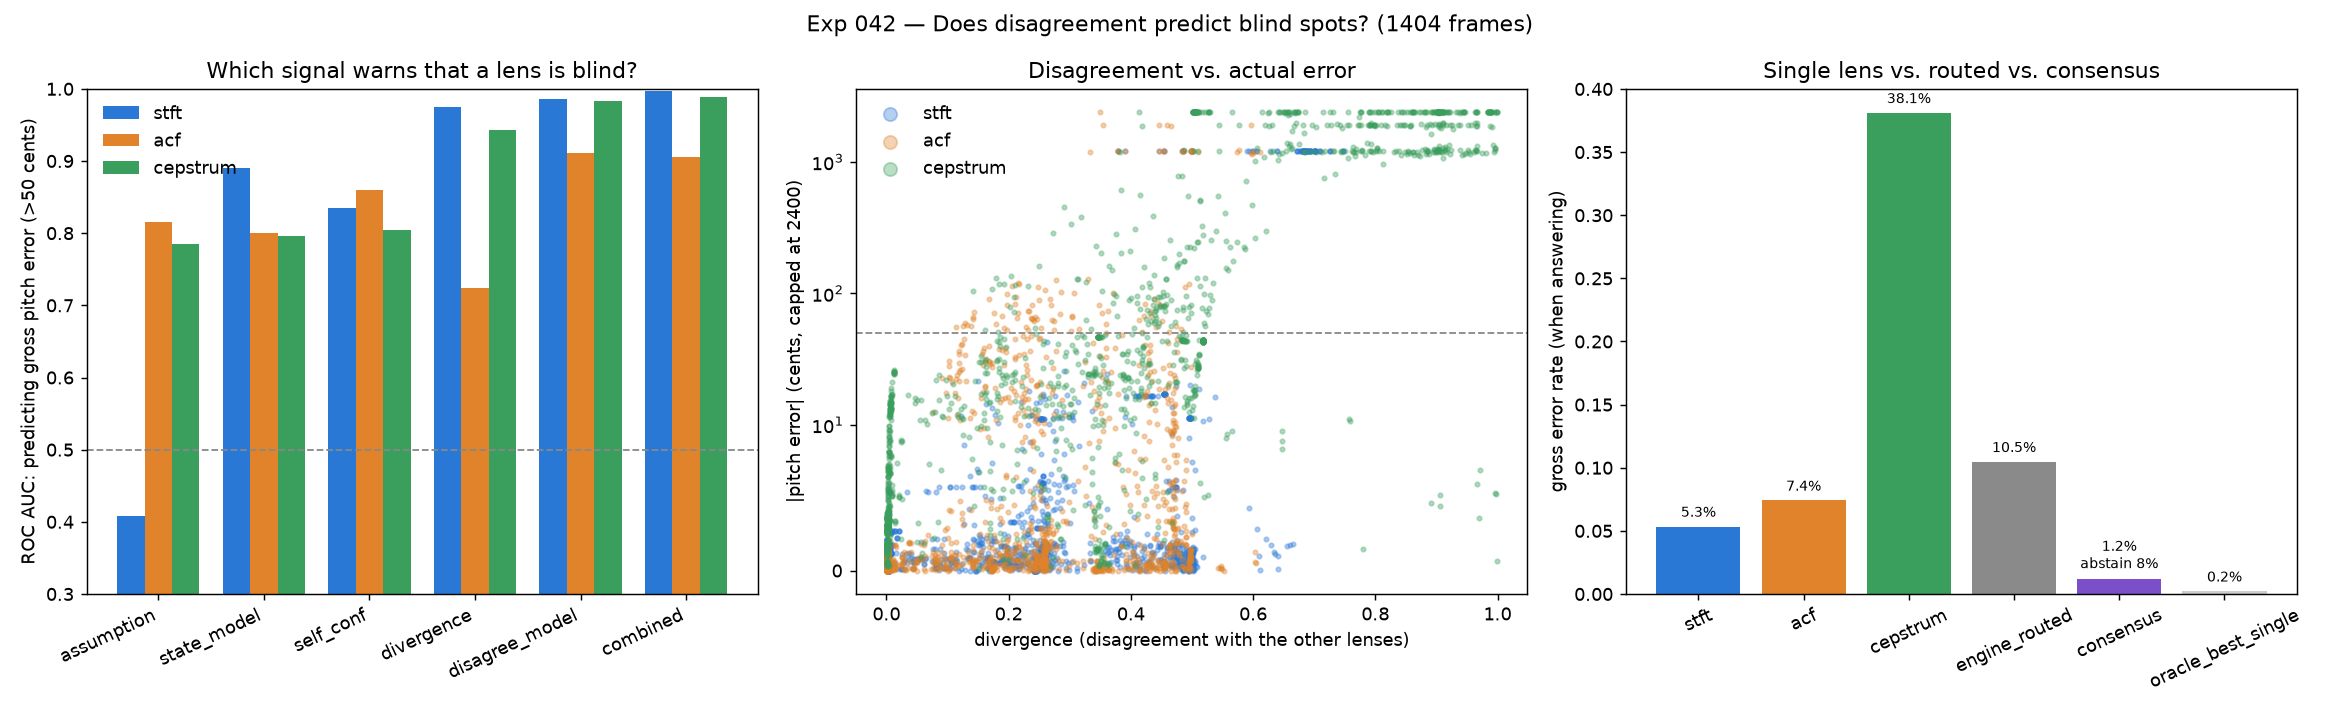
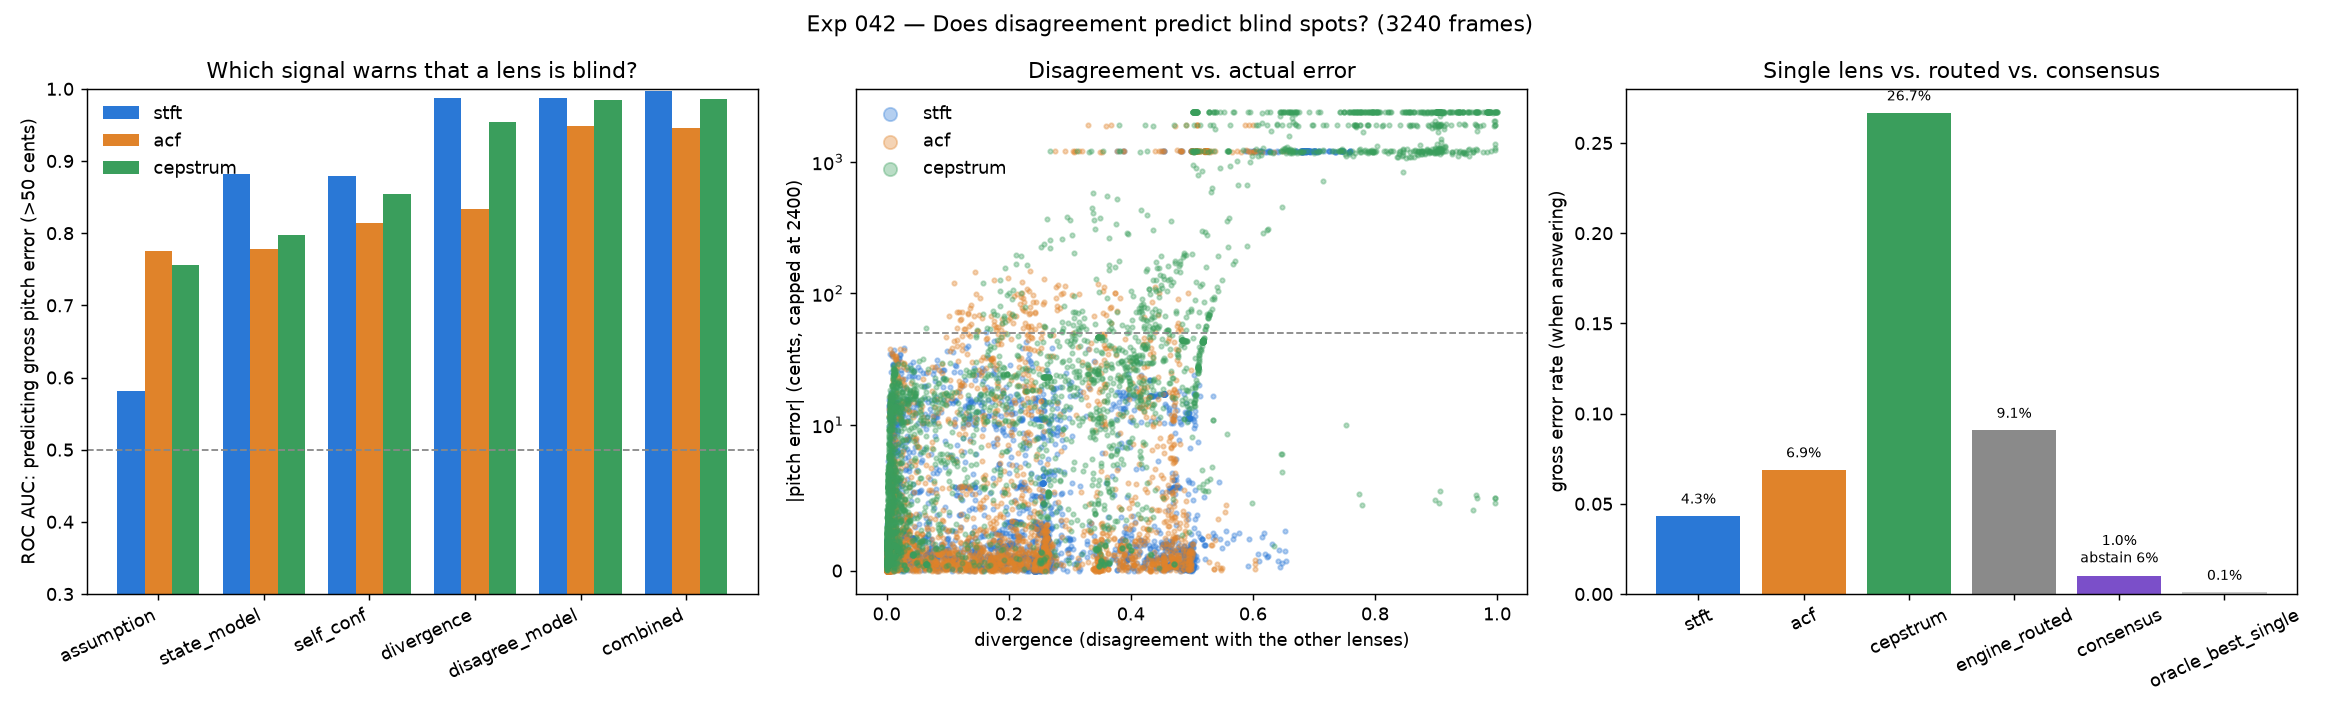
Extend Exp 042 with pitch shift, time stretch and more signal types (closes #2)
Add vibrato, glide and pulse-train signals alongside harmonic stacks, pitch
shift and time stretch perturbations (true f0 track transformed with the
signal), a per-signal-type breakdown and an unpitched white-noise
false-confidence check. 3,240 frames; README results updated, including
where disagreement does not help.

diff --git a/src/experiments/exp042_disagreement_prediction.py b/src/experiments/exp042_disagreement_prediction.py
@@ -4,7 +4,7 @@ Experiment 042 — Does Disagreement Predict Blind Spots? (issue #2)
 Tests the core principle of docs/VISION.md: *disagreement between
 representations is information*.
 
-For thousands of synthetic frames with a known f0, we run STFT, ACF and
+For thousands of synthetic frames with a known f0 track, we run STFT, ACF and
 Cepstrum side by side (src/framework/disagreement.py) and ask, for each
 representation: **can we tell in advance that it is about to make a gross
 pitch error (> 50 cents)?**
@@ -22,8 +22,17 @@ Predictors compared (all evaluated per representation, ROC AUC, higher = better)
   Both:
     6. combined     state + disagreement features (CV)
 
-Cross-validation is grouped by base signal (f0, harmonic count) so the model
+Signals: stationary harmonic stacks (1 to 20 harmonics), vibrato, glides and a
+flat-spectrum pulse train. Perturbations: noise, low-pass, missing fundamental,
+clipping, low-pass + noise, pitch shift and time stretch (the true f0 track is
+transformed along with the signal). Truth for a frame = geometric mean of the
+f0 track over that frame.
+
+Cross-validation is grouped by base signal (f0, signal variant) so the model
 is always tested on signals it has never seen.
+
+An extra check on unpitched input (pure white noise): how often does each lens
+confidently report a pitch that is not there, and how often does the consensus?
 
 We also check whether comparing lenses gives a better *answer*, not just a
 better warning: gross-error rate of each single lens vs. the lens the engine
@@ -53,17 +62,20 @@ warnings.filterwarnings("ignore")
 
 from src.framework.engine import RepresentationIntelligenceEngine
 from src.perturbations.filter import lowpass_filter
+from src.perturbations.pitch_shift import apply_pitch_shift
+from src.perturbations.time_stretch import apply_time_stretch
 from scipy.signal import butter, filtfilt
 
 SR = 22050          # the engine's state space was calibrated at 22.05 kHz
 FRAME = 2048
-DURATION = 0.5
+DURATION = 1.0
 GROSS_CENTS = 50.0
 REPS = ("stft", "acf", "cepstrum")
 SEEDS = (0, 1, 2)
 
 F0S = (110.0, 165.0, 220.0, 330.0, 440.0, 660.0)
 HARMONICS = (1, 2, 3, 5, 10, 20)
+UNPITCHED_FRAMES = 90
 
 OUT_PNG = os.path.join(project_root, "results", "exp042_disagreement_prediction.png")
 OUT_JSON = os.path.join(project_root, "results", "exp042_summary.json")
@@ -73,14 +85,34 @@ OUT_JSON = os.path.join(project_root, "results", "exp042_summary.json")
 # SIGNALS & PERTURBATIONS
 # ──────────────────────────────────────────────────────────────────────────────
 
-def harmonic_signal(f0, num_harmonics, rng):
-    t = np.arange(int(SR * DURATION)) / SR
-    x = np.zeros_like(t)
-    for k in range(1, num_harmonics + 1):
-        if k * f0 >= 0.45 * SR:
+def synth(track, amps):
+    """Harmonic signal following an f0 track (Hz per sample), amps[k-1] for harmonic k."""
+    phase = 2 * np.pi * np.cumsum(track) / SR
+    x = np.zeros_like(track)
+    for k, a in enumerate(amps, start=1):
+        if k * track.max() >= 0.45 * SR:
             break
-        x += (1.0 / k) * np.sin(2 * np.pi * k * f0 * t + rng.uniform(0, 2 * np.pi))
+        x += a * np.sin(k * phase + 0.7 * k)
     return x / (np.max(np.abs(x)) + 1e-12)
+
+
+def signal_variants(f0):
+    """(variant name, signal type, function(rng) -> (x, f0_track))."""
+    n = int(SR * DURATION)
+    t = np.arange(n) / SR
+    flat = np.full(n, f0)
+    out = []
+    for nh in HARMONICS:
+        out.append((f"harmonic{nh}", "harmonic", lambda r, nh=nh: (synth(flat, [1.0 / k for k in range(1, nh + 1)]), flat)))
+    for nh in (5, 10):
+        def vib(r, nh=nh):
+            tr = f0 * 2.0 ** ((50.0 / 1200.0) * np.sin(2 * np.pi * 5.5 * t + r.uniform(0, 2 * np.pi)))
+            return synth(tr, [1.0 / k for k in range(1, nh + 1)]), tr
+        out.append((f"vibrato{nh}", "vibrato", vib))
+    glide = f0 * 2.0 ** ((t - DURATION / 2) / DURATION)  # one octave over the signal, centred on f0
+    out.append(("glide5", "glide", lambda r: (synth(glide, [1.0 / k for k in range(1, 6)]), glide)))
+    out.append(("pulse_train", "pulse_train", lambda r: (synth(flat, [1.0] * 200), flat)))
+    return out
 
 
 def add_noise_snr(x, snr_db, rng):
@@ -94,17 +126,27 @@ def highpass(x, cutoff):
 
 
 def conditions(f0):
-    """(family, severity label, function(x, rng) -> x)."""
-    out = [("clean", "-", lambda x, r: x)]
+    """(family, severity, signal fn(x, rng) -> x, track fn(track) -> track)."""
+    same = lambda tr: tr
+    out = [("clean", "-", lambda x, r: x, same)]
     for snr in (20, 10, 5, 0, -5):
-        out.append(("noise", f"{snr} dB", lambda x, r, s=snr: add_noise_snr(x, s, r)))
+        out.append(("noise", f"{snr} dB", lambda x, r, s=snr: add_noise_snr(x, s, r), same))
     for mult in (1.5, 2.5, 4.5):
-        out.append(("lowpass", f"{mult}xf0", lambda x, r, m=mult: lowpass_filter(x, SR, m * f0)))
-    out.append(("missing_fund", "hp 1.5xf0", lambda x, r: highpass(x, 1.5 * f0)))
+        out.append(("lowpass", f"{mult}xf0", lambda x, r, m=mult: lowpass_filter(x, SR, m * f0), same))
+    out.append(("missing_fund", "hp 1.5xf0", lambda x, r: highpass(x, 1.5 * f0), same))
     for gain in (3.0, 10.0):
-        out.append(("clipping", f"x{gain:g}", lambda x, r, g=gain: np.clip(g * x, -1, 1)))
+        out.append(("clipping", f"x{gain:g}", lambda x, r, g=gain: np.clip(g * x, -1, 1), same))
     out.append(("lowpass+noise", "2.5xf0, 5 dB",
-                lambda x, r: add_noise_snr(lowpass_filter(x, SR, 2.5 * f0), 5, r)))
+                lambda x, r: add_noise_snr(lowpass_filter(x, SR, 2.5 * f0), 5, r), same))
+    for steps in (-5, 4, 7):
+        out.append(("pitch_shift", f"{steps:+d} st",
+                    lambda x, r, n=steps: apply_pitch_shift(x, SR, n),
+                    lambda tr, n=steps: tr * 2.0 ** (n / 12.0)))
+    for rate in (0.8, 1.25):
+        # Output time t corresponds to input time t * rate.
+        out.append(("time_stretch", f"x{rate:g}",
+                    lambda x, r, k=rate: apply_time_stretch(x, k),
+                    lambda tr, k=rate: np.interp(np.arange(len(tr)) * k, np.arange(len(tr)), tr)))
     return out
 
 
@@ -174,32 +216,49 @@ def grouped_cv_scores(X, y, groups, k=5, seed=0):
 # DATA COLLECTION
 # ──────────────────────────────────────────────────────────────────────────────
 
+def frame_row(engine, frame, truth, meta):
+    state = engine.analyze(frame, SR)
+    rep = state.disagreement
+    return {
+        **meta, "truth": truth,
+        "z1": state.coordinate[0], "z2": state.coordinate[1],
+        "region": state.region,
+        "assumptions": {r: state.assumptions[r] for r in REPS},
+        "readings": {r: (rep.readings[r].f0, rep.readings[r].confidence) for r in REPS},
+        "voiced": {r: rep.readings[r].voiced for r in REPS},
+        "divergence": dict(rep.divergence),
+        "overall": rep.overall,
+        "consensus_f0": rep.consensus_f0,
+        "pairs": [(p.a, p.b, p.pitch_term, p.confidence_gap, p.octave_related) for p in rep.pairs],
+    }
+
+
 def collect():
     engine = RepresentationIntelligenceEngine()
     rows = []
     for f0 in F0S:
-        for nh in HARMONICS:
-            for family, severity, fn in conditions(f0):
+        for variant, sig_type, make in signal_variants(f0):
+            for family, severity, fn, track_fn in conditions(f0):
                 for seed in SEEDS:
-                    rng = np.random.default_rng(zlib.crc32(repr((f0, nh, family, severity, seed)).encode()))
-                    x = fn(harmonic_signal(f0, nh, rng), rng)
+                    rng = np.random.default_rng(zlib.crc32(repr((f0, variant, family, severity, seed)).encode()))
+                    x, track = make(rng)
+                    x, track = fn(x, rng), track_fn(track)
                     start = (len(x) - FRAME) // 2 + int(rng.integers(-500, 500))
-                    frame = x[start:start + FRAME]
-                    state = engine.analyze(frame, SR)
-                    rep = state.disagreement
-                    rows.append({
-                        "f0": f0, "harmonics": nh, "family": family, "severity": severity,
-                        "seed": seed, "group": f"{f0:g}-{nh}",
-                        "z1": state.coordinate[0], "z2": state.coordinate[1],
-                        "region": state.region,
-                        "assumptions": {r: state.assumptions[r] for r in REPS},
-                        "readings": {r: (rep.readings[r].f0, rep.readings[r].confidence) for r in REPS},
-                        "divergence": dict(rep.divergence),
-                        "overall": rep.overall,
-                        "consensus_f0": rep.consensus_f0,
-                        "pairs": [(p.a, p.b, p.pitch_term, p.confidence_gap, p.octave_related)
-                                  for p in rep.pairs],
-                    })
+                    truth = float(np.exp(np.mean(np.log(track[start:start + FRAME]))))
+                    rows.append(frame_row(engine, x[start:start + FRAME], truth, {
+                        "f0": f0, "variant": variant, "signal": sig_type,
+                        "family": family, "severity": severity, "seed": seed,
+                        "group": f"{f0:g}-{variant}",
+                    }))
+    return rows
+
+
+def collect_unpitched():
+    engine = RepresentationIntelligenceEngine()
+    rows = []
+    for seed in range(UNPITCHED_FRAMES):
+        frame = np.random.default_rng(10_000 + seed).normal(0.0, 0.3, FRAME)
+        rows.append(frame_row(engine, frame, 0.0, {"seed": seed}))
     return rows
 
 
@@ -236,7 +295,7 @@ def analyze(rows):
     scores_for_plot = {}
 
     for rep in REPS:
-        err = np.array([cents_error(r["readings"][rep][0], r["f0"]) for r in rows])
+        err = np.array([cents_error(r["readings"][rep][0], r["truth"]) for r in rows])
         y = (err > GROSS_CENTS).astype(float)
         Xs = np.array([state_features(r) for r in rows])
         Xd = np.array([features(r, rep) for r in rows])
@@ -257,25 +316,31 @@ def analyze(rows):
         }
         scores_for_plot[rep] = (Xd[:, 0], np.minimum(err, 2400.0), y)
 
-    # Per perturbation family: AUC of divergence vs. state baseline, pooled over reps.
-    for fam in sorted({r["family"] for r in rows}):
-        idx = [i for i, r in enumerate(rows) if r["family"] == fam]
+    # Per perturbation family and per signal type: AUC of divergence vs. the
+    # existing assumption score, pooled over reps.
+    def breakdown(_key, i_list):
         lab, div, ass = [], [], []
         for rep in REPS:
-            for i in idx:
-                e = cents_error(rows[i]["readings"][rep][0], rows[i]["f0"])
+            for i in i_list:
+                e = cents_error(rows[i]["readings"][rep][0], rows[i]["truth"])
                 lab.append(e > GROSS_CENTS)
                 div.append(rows[i]["divergence"][rep])
                 ass.append(1.0 - rows[i]["assumptions"][rep])
-        summary["by_family"][fam] = {
+        return {
             "gross_error_rate": float(np.mean(lab)),
             "auc_divergence": roc_auc(div, lab),
             "auc_assumption": roc_auc(ass, lab),
         }
 
+    summary["by_signal"] = {}
+    for sig in sorted({r["signal"] for r in rows}):
+        summary["by_signal"][sig] = breakdown("signal", [i for i, r in enumerate(rows) if r["signal"] == sig])
+    for fam in sorted({r["family"] for r in rows}):
+        summary["by_family"][fam] = breakdown("family", [i for i, r in enumerate(rows) if r["family"] == fam])
+
     # Fusion: does comparing lenses give a better answer?
     def rate(estimates):
-        errs = np.array([cents_error(e, r["f0"]) for e, r in zip(estimates, rows)])
+        errs = np.array([cents_error(e, r["truth"]) for e, r in zip(estimates, rows)])
         answered = np.array([e > 0 for e in estimates])
         return {
             "gross_error_rate": float(np.mean(errs > GROSS_CENTS)),
@@ -290,9 +355,20 @@ def analyze(rows):
         r["readings"][max(REPS, key=lambda k: r["assumptions"][k])][0] for r in rows])
     summary["fusion"]["consensus"] = rate([r["consensus_f0"] for r in rows])
     summary["fusion"]["oracle_best_single"] = rate([
-        min((r["readings"][k][0] for k in REPS), key=lambda e: cents_error(e, r["f0"]))
+        min((r["readings"][k][0] for k in REPS), key=lambda e: cents_error(e, r["truth"]))
         for r in rows])
     return summary, scores_for_plot
+
+
+def analyze_unpitched(rows):
+    """On pure noise there is no pitch: any confident answer is a false alarm."""
+    out = {"n_frames": len(rows)}
+    for rep in REPS:
+        out[rep] = {"false_voiced_rate": float(np.mean([r["voiced"][rep] for r in rows]))}
+    out["any_single_lens"] = {"false_voiced_rate": float(np.mean([any(r["voiced"].values()) for r in rows]))}
+    out["consensus"] = {"false_voiced_rate": float(np.mean([r["consensus_f0"] > 0 for r in rows]))}
+    out["mean_overall_disagreement"] = float(np.mean([r["overall"] for r in rows]))
+    return out
 
 
 # ──────────────────────────────────────────────────────────────────────────────
@@ -348,6 +424,7 @@ def plot(summary, scores):
 def main():
     rows = collect()
     summary, scores = analyze(rows)
+    summary["unpitched_noise"] = analyze_unpitched(collect_unpitched())
     with open(OUT_JSON, "w") as f:
         json.dump(summary, f, indent=2)
     plot(summary, scores)
@@ -358,6 +435,10 @@ def main():
         d = summary["per_rep"][rep]
         print(f"{rep:10s} {d['gross_error_rate']:8.1%} " +
               " ".join(f"{d['auc'][p]:14.3f}" for p in PREDICTORS))
+    print("\nBy signal type (pooled over lenses): AUC divergence vs assumption")
+    for sig, d in summary["by_signal"].items():
+        print(f"  {sig:15s} err {d['gross_error_rate']:6.1%}  div {d['auc_divergence']:.3f}"
+              f"  assumption {d['auc_assumption']:.3f}")
     print("\nBy perturbation family (pooled over lenses): AUC divergence vs assumption")
     for fam, d in summary["by_family"].items():
         print(f"  {fam:15s} err {d['gross_error_rate']:6.1%}  div {d['auc_divergence']:.3f}"
@@ -365,6 +446,10 @@ def main():
     print("\nAnswer quality (gross error rate when answering / abstain rate)")
     for k, d in summary["fusion"].items():
         print(f"  {k:20s} {d['gross_error_rate_when_answering']:6.1%}  abstain {d['abstain_rate']:5.1%}")
+    u = summary["unpitched_noise"]
+    print(f"\nUnpitched noise ({u['n_frames']} frames): false 'voiced' rate")
+    for k in (*REPS, "any_single_lens", "consensus"):
+        print(f"  {k:20s} {u[k]['false_voiced_rate']:6.1%}")
     print(f"\nSaved {OUT_PNG}\nSaved {OUT_JSON}")
 
 

diff --git a/README.md b/README.md
@@ -644,31 +644,47 @@ Performs zero-shot external validation on five completely external algorithms fr
 #### Exp 042 — Does Disagreement Predict Blind Spots?
 The first test of the project's core principle ([docs/VISION.md](docs/VISION.md)): *disagreement between representations is information*. STFT, ACF and Cepstrum run side by side on each frame (`src/framework/disagreement.py`, issue #1). For each lens we ask: **can we tell in advance that it is about to make a gross pitch error (> 50 cents)?**
 
-- **Data**: 1,404 synthetic frames with known f0 (6 pitches × 6 harmonic counts from a pure sine to 20 harmonics × 13 conditions × 3 seeds) at 22.05 kHz. Conditions: clean, noise (20 to −5 dB SNR), low-pass (1.5/2.5/4.5 × f0), missing fundamental, clipping (×3, ×10), low-pass + noise.
-- **Warning signals compared**: the current framework's descriptor-only state space (`1 − assumption` score, and a model on z₁/z₂), the lens's own confidence, and the new cross-lens disagreement (`divergence`, and a model on disagreement features). Models are logistic regressions, cross-validated so every test signal is unseen.
+- **Data**: 3,240 synthetic frames with a known f0 track at 22.05 kHz: 6 pitches (110–660 Hz) × 10 signal variants × 18 conditions × 3 seeds.
+  - *Signals*: stationary harmonic stacks (pure sine up to 20 harmonics), vibrato (±50 cents at 5.5 Hz), a one-octave glide, and a flat-spectrum pulse train.
+  - *Conditions*: clean, noise (20 to −5 dB SNR), low-pass (1.5/2.5/4.5 × f0), missing fundamental, clipping (×3, ×10), low-pass + noise, pitch shift (−5, +4, +7 semitones) and time stretch (×0.8, ×1.25). The true f0 track is transformed along with the signal; a frame's truth is the geometric mean of its f0 track.
+  - *Unpitched check*: 90 frames of pure white noise, where any confident pitch is a false alarm.
+- **Warning signals compared**: the current framework's descriptor-only state space (`1 − assumption` score, and a model on z₁/z₂), the lens's own confidence, and the new cross-lens disagreement (`divergence`, and a model on disagreement features). Models are logistic regressions, cross-validated so every test signal (pitch + variant) is unseen.
 
-**ROC AUC for predicting a gross error (0.5 = chance):**
+**ROC AUC for predicting a gross error (> 50 cents; 0.5 = chance):**
 
 | Lens | Gross error rate | Assumption (existing) | State model (existing) | Own confidence | Divergence (new) | Disagreement model (new) | Combined |
 |---|---|---|---|---|---|---|---|
-| STFT | 5.3% | 0.408 | 0.890 | 0.835 | 0.974 | 0.986 | **0.997** |
-| ACF | 7.4% | 0.816 | 0.801 | 0.860 | 0.724 | **0.911** | 0.905 |
-| Cepstrum | 38.1% | 0.784 | 0.796 | 0.805 | 0.943 | 0.982 | **0.988** |
+| STFT | 4.3% | 0.581 | 0.883 | 0.879 | 0.987 | 0.987 | **0.996** |
+| ACF | 6.9% | 0.776 | 0.778 | 0.814 | 0.833 | **0.949** | 0.946 |
+| Cepstrum | 26.7% | 0.756 | 0.797 | 0.854 | 0.954 | 0.985 | **0.986** |
 
-**By condition** (all lenses pooled, AUC): divergence beats the existing assumption score on clean (1.000 vs 0.911), clipping (1.000 vs 0.886), low-pass (1.000 vs 0.879), noise (0.848 vs 0.767) and especially missing fundamental (0.901 vs 0.296, where the existing score is worse than chance). It is **worse** on low-pass + noise (0.796 vs 0.843).
+**By condition** (all lenses pooled, AUC divergence vs. existing assumption score):
+
+| Condition | Gross error rate | Divergence | Assumption |
+|---|---|---|---|
+| clean | 2.2% | **1.000** | 0.775 |
+| clipping | 6.0% | **0.996** | 0.832 |
+| low-pass | 3.3% | **1.000** | 0.898 |
+| low-pass + noise | 33.3% | 0.772 | **0.843** |
+| missing fundamental | 30.0% | **0.941** | 0.320 |
+| noise | 22.9% | **0.842** | 0.752 |
+| pitch shift | 6.4% | **0.978** | 0.653 |
+| time stretch | 3.1% | **0.995** | 0.741 |
+
+**By signal type**: divergence beats the assumption score for every type: harmonic 0.922 vs 0.822, vibrato 0.953 vs 0.787, glide 0.929 vs 0.819, pulse train 0.976 vs 0.507 (the existing score is at chance there).
 
 **Better answers, not just better warnings** (gross error rate when answering):
 
 | STFT | ACF | Cepstrum | Engine-routed lens | **Disagreement consensus** | Oracle best lens |
 |---|---|---|---|---|---|
-| 5.3% | 7.4% | 38.1% | 10.5% | **1.2%** (abstains on 7.7%) | 0.2% |
+| 4.3% | 6.9% | 26.7% | 9.1% | **1.0%** (abstains on 5.6%) | 0.1% |
 
 **Key findings:**
-1. Disagreement is a strong warning signal. A model on disagreement features predicts gross errors with AUC 0.91–0.99 for all three lenses, beating both the existing state-space predictors and each lens's own confidence.
-2. Divergence alone, with no training, is excellent for STFT (0.974) and Cepstrum (0.943) but weak for ACF (0.724), where ACF's own confidence is better (0.860). ACF errors often come with mild disagreement, so the full disagreement model is needed there.
-3. The existing framework's assumption score fails badly in some places: it is below chance for STFT (0.408) and for missing-fundamental signals (0.296). Disagreement does not have this failure.
-4. Comparing lenses gives a better answer. The confidence-weighted consensus is wrong 1.2% of the time when it answers, versus 5.3% for the best single lens and 10.5% for the lens the engine would route to. The cost is declining to answer on 7.7% of frames: exactly the 108 frames at −5 dB SNR, where no lens is confident. Counting those abstentions as errors, the consensus is wrong 8.8% of the time, still better than the engine-routed lens (10.5%).
-5. Limits: all signals are synthetic and harmonic, the error threshold and confidence calibrations are hand-set, and disagreement is weaker than the existing state space when filtering and noise combine. Validation on real recordings is tracked in issue #7.
+1. Disagreement is a strong warning signal. A model on disagreement features predicts gross errors with AUC 0.95–0.99 for all three lenses, beating both the existing state-space predictors and each lens's own confidence. This holds across all four signal types, including the moving-pitch ones (vibrato, glide).
+2. Divergence alone, with no training, is excellent for STFT (0.987) and Cepstrum (0.954) but weaker for ACF (0.833). ACF errors often come with only mild disagreement, so the full disagreement model is needed there.
+3. The existing framework's assumption score fails badly in places: near chance for STFT (0.581) and pulse trains (0.507), and below chance for missing-fundamental signals (0.320). Disagreement does not have these failures.
+4. Comparing lenses gives a better answer. The confidence-weighted consensus is wrong 1.0% of the time when it answers, versus 4.3% for the best single lens and 9.1% for the lens the engine would route to. The cost is declining to answer on 5.6% of frames: 179 of the 180 frames at −5 dB SNR plus 2 at 0 dB, where no lens is confident. Counting abstentions as errors, the consensus is wrong 6.5% of the time, still better than the engine-routed lens (9.1%).
+5. Limits: disagreement is weaker than the existing state space when filtering and noise combine (0.772 vs 0.843). The unpitched check was not informative: no lens, and so no consensus, ever reported a confident pitch on white noise (0 of 90 frames), so a harder test (e.g. coloured or modulated noise) is needed. All signals are synthetic, and the error threshold and confidence calibrations are hand-set. Validation on real recordings is tracked in issue #7.
 
 - **Run**: `.venv/bin/python src/experiments/exp042_disagreement_prediction.py`
 - **Outputs**: [results/exp042_disagreement_prediction.png](results/exp042_disagreement_prediction.png), [results/exp042_summary.json](results/exp042_summary.json)
